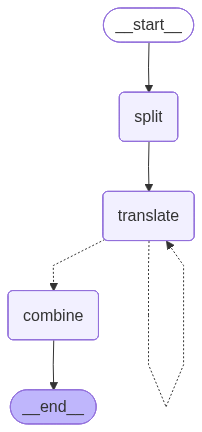
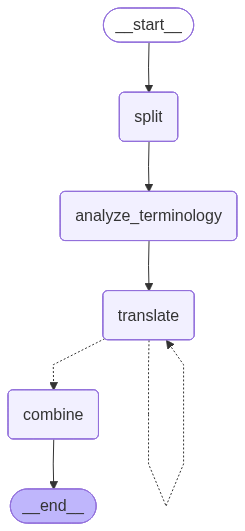
fix

diff --git a/workspace/LangGraph/translate/nodes/analyze_terminology_node.py b/workspace/LangGraph/translate/nodes/analyze_terminology_node.py
@@ -1,0 +1,85 @@
+from ..state import TranslationState
+from ..tools.glossary import get_glossary
+
+
+def analyze_terminology(state: TranslationState) -> TranslationState:
+    """
+    LLMを使って各チャンクから専門用語を抽出し、辞書と照合
+    
+    各チャンクに対してLLMで専門用語を抽出し、
+    get_glossaryツールで取得した辞書と照合して
+    該当する用語の翻訳を取得する
+    
+    Args:
+        state: 現在の翻訳状態
+        
+    Returns:
+        detected_termsを含む更新された状態
+    """
+    print("[専門用語分析] LLMによる専門用語の抽出と照合を開始")
+    
+    text_chunks = state["text_chunks"]
+    llm = state["llm"]
+    detected_terms = []
+    
+    # 辞書から用語リストを取得
+    glossary_dict = get_glossary.invoke({})
+    
+    print(f"[専門用語分析] {len(glossary_dict)}件の用語辞書を読み込みました")
+    
+    for idx, chunk in enumerate(text_chunks):
+        # LLMで専門用語を抽出
+        prompt = f"""以下のテキストから専門用語（技術用語、医学用語、法律用語、金融用語など）を抽出してください。
+
+テキスト:
+{chunk}
+
+指示:
+1. テキスト中に含まれる専門用語をカンマ区切りで列挙してください
+2. 一般的な単語ではなく、専門的・技術的な用語のみを抽出してください
+3. 専門用語が含まれていない場合は "NONE" と答えてください
+4. 用語のみを出力してください（説明は不要）
+
+専門用語:"""
+
+        response = llm.invoke(prompt)
+        extracted_text = response.content.strip()
+        
+        # 抽出された用語を解析
+        chunk_terms = {}
+        if extracted_text.upper() != "NONE":
+            # カンマ区切りで分割して各用語を処理
+            terms = [term.strip() for term in extracted_text.split(",")]
+            
+            # 辞書と照合
+            for term in terms:
+                # 完全一致
+                if term in glossary_dict:
+                    chunk_terms[term] = glossary_dict[term]
+                # 小文字で完全一致
+                elif term.lower() in glossary_dict:
+                    chunk_terms[term] = glossary_dict[term.lower()]
+                # 部分一致（辞書のキーに含まれるか）
+                else:
+                    for dict_term, translation in glossary_dict.items():
+                        if term.lower() in dict_term.lower() or dict_term.lower() in term.lower():
+                            chunk_terms[term] = translation
+                            break
+        
+        detected_terms.append(chunk_terms)
+        
+        if chunk_terms:
+            print(f"[専門用語分析] チャンク {idx + 1}/{len(text_chunks)}: {len(chunk_terms)}件の専門用語を検出")
+            sample_terms = list(chunk_terms.items())[:3]
+            for en, ja in sample_terms:
+                print(f"  - {en}: {ja}")
+        else:
+            print(f"[専門用語分析] チャンク {idx + 1}/{len(text_chunks)}: 専門用語なし")
+    
+    total_chunks_with_terms = sum(1 for terms in detected_terms if terms)
+    print(f"[専門用語分析] 分析完了: {total_chunks_with_terms}/{len(text_chunks)} チャンクに専門用語が含まれています")
+    
+    return {
+        **state,
+        "detected_terms": detected_terms
+    }

diff --git a/workspace/LangGraph/translate/nodes/translate_node.py b/workspace/LangGraph/translate/nodes/translate_node.py
@@ -3,7 +3,10 @@ from ..state import TranslationState
 
 def translate_chunk(state: TranslationState) -> TranslationState:
     """
-    現在のチャンクを翻訳
+    現在のチャンクを翻訳（専門用語を考慮）
+    
+    検出された専門用語がある場合、それをプロンプトに含めて
+    翻訳の一貫性と精度を向上させる
     
     Args:
         state: 現在の翻訳状態
@@ -15,18 +18,43 @@ def translate_chunk(state: TranslationState) -> TranslationState:
     translated_chunks = state["translated_chunks"]
     current_idx = sum(1 for chunk in translated_chunks if chunk != "")
     total_chunks = len(state["text_chunks"])
-    print(f"[2. ノード実行(translate)] チャンク翻訳 ({current_idx + 1}/{total_chunks})")
     
     chunk = state["text_chunks"][current_idx]
     llm = state["llm"]
+    detected_terms = state.get("detected_terms", [])
     
-    prompt = f"以下の英文を自然な日本語に翻訳してください。翻訳文のみを出力してください：\n\n{chunk}"
+    # このチャンクで検出された専門用語を取得
+    chunk_terms = detected_terms[current_idx] if current_idx < len(detected_terms) else {}
+    
+    if chunk_terms:
+        print(f"[翻訳(専門用語考慮)] チャンク {current_idx + 1}/{total_chunks}")
+        
+        # 専門用語辞書をプロンプトに組み込む
+        terms_context = "\n".join([f"- {en}: {ja}" for en, ja in chunk_terms.items()])
+        
+        prompt = f"""以下の英文を自然な日本語に翻訳してください。
+
+専門用語の対訳表:
+{terms_context}
+
+重要な注意事項:
+1. 上記の専門用語が文中に出現した場合、対訳表の訳語を使用してください
+2. 専門用語の一貫性を保ってください
+3. 文脈に応じて自然な日本語になるように調整してください
+4. 翻訳文のみを出力してください
+
+翻訳対象テキスト:
+{chunk}"""
+    else:
+        print(f"[翻訳(通常)] チャンク {current_idx + 1}/{total_chunks}")
+        prompt = f"以下の英文を自然な日本語に翻訳してください。翻訳文のみを出力してください：\n\n{chunk}"
+    
     response = llm.invoke(prompt)
     
     new_translated_chunks = translated_chunks.copy()
     new_translated_chunks[current_idx] = response.content
 
-    print(f"[2. ノード完了(translate)] チャンク {current_idx + 1} の翻訳完了")
+    print(f"[翻訳完了] チャンク {current_idx + 1} の翻訳完了")
 
     return {
         **state,

diff --git a/workspace/LangGraph/translate/tools/glossary.py b/workspace/LangGraph/translate/tools/glossary.py
@@ -1,0 +1,73 @@
+"""
+用語集用ツール定義
+
+"""
+
+from typing import Dict
+from langchain_core.tools import tool
+
+
+@tool
+def get_glossary() -> Dict[str, str]:
+    """日英専門用語辞書を取得します。
+    
+    Returns:
+        用語リストを含む辞書（英語: 日本語）
+    """
+    # 専門用語辞書（全分野統合）
+    glossary = {
+        # IT / テクノロジー
+        "API": "アプリケーションプログラミングインターフェース（API）",
+        "HTTP": "ハイパーテキスト転送プロトコル（HTTP）",
+        "algorithm": "アルゴリズム",
+        "database": "データベース",
+        "server": "サーバー",
+        "cloud": "クラウド",
+        "AI": "人工知能（AI）",
+        "machine learning": "機械学習",
+        "neural network": "ニューラルネットワーク",
+        "GPU": "グラフィックス処理装置（GPU）",
+        "CPU": "中央処理装置（CPU）",
+        "framework": "フレームワーク",
+        "library": "ライブラリ",
+        "protocol": "プロトコル",
+        "software": "ソフトウェア",
+        "intelligent agents": "知的エージェント",
+        "cognitive": "認知的",
+        "artificial general intelligence": "汎用人工知能（AGI）",
+        "deep learning": "深層学習",
+        "parallel processing": "並列処理",
+        
+        # 医療
+        "diagnosis": "診断",
+        "treatment": "治療",
+        "patient": "患者",
+        "clinical": "臨床の",
+        "disease": "疾患",
+        "symptom": "症状",
+        "therapy": "療法",
+        "pharmaceutical": "医薬品",
+        
+        # 法律
+        "contract": "契約",
+        "lawsuit": "訴訟",
+        "plaintiff": "原告",
+        "defendant": "被告",
+        "attorney": "弁護士",
+        "litigation": "訴訟",
+        "jurisdiction": "管轄権",
+        "statute": "法令",
+        
+        # 金融
+        "investment": "投資",
+        "portfolio": "ポートフォリオ",
+        "securities": "証券",
+        "equity": "株式",
+        "dividend": "配当",
+        "bond": "債券",
+        "asset": "資産",
+        "liability": "負債"
+    }
+    
+    return glossary
+

diff --git a/workspace/LangGraph/main.py b/workspace/LangGraph/main.py
@@ -21,22 +21,25 @@ def main():
         base_url=base_url,
         model_name=model_name
     )
-    
+        
+    # グラフ構造の保存（オプション）
+    translator.save_structure("translation_graph_structure.png")
+
+    # 専門用語を含むサンプルテキスト（AI/機械学習分野）
     sample_text = """
     Artificial intelligence (AI) is intelligence demonstrated by machines, in contrast to the natural intelligence displayed by humans and animals. Leading AI textbooks define the field as the study of "intelligent agents": any device that perceives its environment and takes actions that maximize its chance of successfully achieving its goals.
 
-    Colloquially, the term "artificial intelligence" is often used to describe machines (or computers) that mimic "cognitive" functions that humans associate with the human mind, such as "learning" and "problem solving". As machines become increasingly capable, tasks considered to require "intelligence" are often removed from the definition of AI, a phenomenon known as the AI effect.
+    Machine learning is a subset of AI that enables systems to learn and improve from experience without being explicitly programmed. Neural networks, which are inspired by biological neural networks, form the foundation of deep learning algorithms.
 
-    A machine with artificial general intelligence should be able to solve a wide variety of problems with breadth and versatility similar to human intelligence.
+    Modern AI systems utilize GPUs for parallel processing of complex algorithms. Cloud computing platforms provide the necessary infrastructure for training large-scale neural networks. These systems often employ HTTP APIs for integration with other software components.
+
+    A machine with artificial general intelligence (AGI) should be able to solve a wide variety of problems with breadth and versatility similar to human intelligence. Current research focuses on improving the cognitive capabilities of AI systems.
     """
     
     # 翻訳の実行
     result = translator.translate(sample_text)
     print("翻訳結果:")
     print(result)
-    
-    # グラフ構造の保存（オプション）
-    # translator.save_structure("translation_graph_structure.png")
 
 
 if __name__ == "__main__":

diff --git a/workspace/LangGraph/translate/translate_agent.py b/workspace/LangGraph/translate/translate_agent.py
@@ -2,7 +2,13 @@ from langgraph.graph import StateGraph, END
 from langchain_openai import ChatOpenAI
 
 from .state import TranslationState
-from .nodes import split_text, translate_chunk, combine_translations, should_continue
+from .nodes import (
+    split_text, 
+    analyze_terminology, 
+    translate_chunk, 
+    combine_translations, 
+    should_continue
+)
 
 
 class Translator:
@@ -29,6 +35,9 @@ class Translator:
         """
         翻訳グラフを作成
         
+        ワークフロー:
+        split → analyze_terminology → translate → (continue?) → combine
+        
         Returns:
             コンパイル済みのLangGraphアプリケーション
         """
@@ -36,16 +45,21 @@ class Translator:
         
         # ノードの追加
         workflow.add_node("split", split_text)
+        workflow.add_node("analyze_terminology", analyze_terminology)
         workflow.add_node("translate", translate_chunk)
         workflow.add_node("combine", combine_translations)
 
         # エッジの追加
         workflow.set_entry_point("split")
-        workflow.add_edge("split", "translate")
+        workflow.add_edge("split", "analyze_terminology")
+        workflow.add_edge("analyze_terminology", "translate")
+        
+        # 条件付きエッジ: 翻訳続行か結合か判定
         workflow.add_conditional_edges("translate", should_continue, {
             "translate": "translate",
             "combine": "combine"
         })
+        
         workflow.add_edge("combine", END)
         
         # グラフのコンパイル
@@ -70,7 +84,8 @@ class Translator:
             "text_chunks": [],
             "translated_chunks": [],
             "final_translation": "",
-            "llm": self._llm
+            "llm": self._llm,
+            "detected_terms": []
         }
         
         result = app.invoke(initial_state)
@@ -83,7 +98,7 @@ class Translator:
         Args:
             file_path: 保存先のファイルパス（デフォルト: graph_structure.png）
         """
-        app = self.create_translation_graph_app()
+        app = self._create_translation_graph_app()
         if not app:
             return
         with open(file_path, "wb") as f:

diff --git a/workspace/LangGraph/translate/state.py b/workspace/LangGraph/translate/state.py
@@ -1,4 +1,4 @@
-from typing import TypedDict, List
+from typing import TypedDict, List, Dict
 from langchain_openai import ChatOpenAI
 
 
@@ -9,3 +9,4 @@ class TranslationState(TypedDict):
     translated_chunks: List[str]  # 翻訳済みチャンクのリスト（未翻訳は空文字列）
     final_translation: str  # 最終的な翻訳結果（全チャンクを結合したもの）
     llm: ChatOpenAI  # 翻訳に使用するLLMインスタンス
+    detected_terms: List[Dict[str, str]]  # 各チャンクで検出された専門用語とその翻訳（英語: 日本語）

diff --git a/workspace/LangGraph/translate/nodes/__init__.py b/workspace/LangGraph/translate/nodes/__init__.py
@@ -1,10 +1,12 @@
 from .split_node import split_text
+from .analyze_terminology_node import analyze_terminology
 from .translate_node import translate_chunk
 from .combine_node import combine_translations
 from .router import should_continue
 
 __all__ = [
     "split_text",
+    "analyze_terminology",
     "translate_chunk",
     "combine_translations",
     "should_continue"
